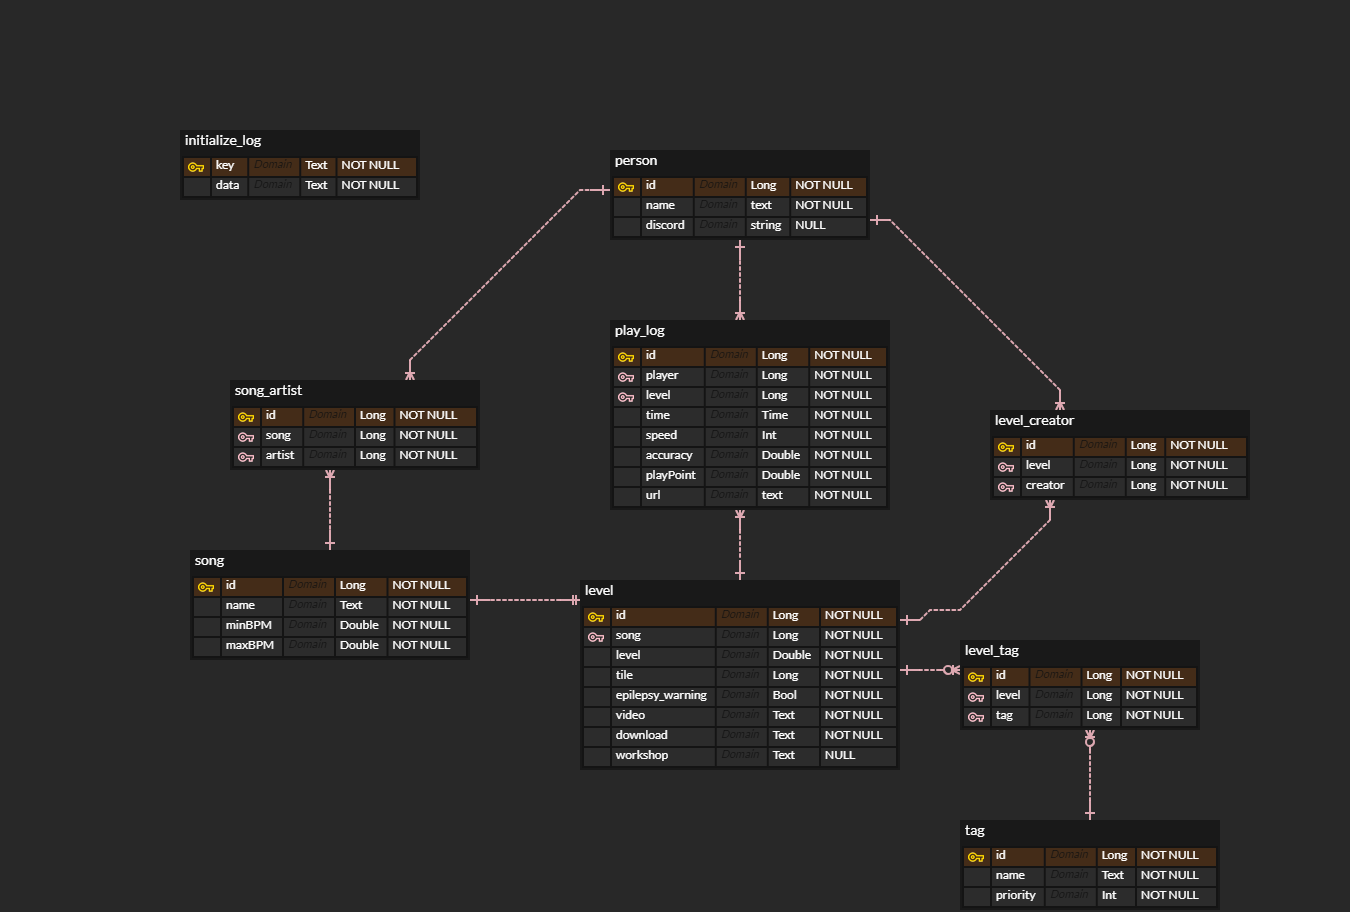
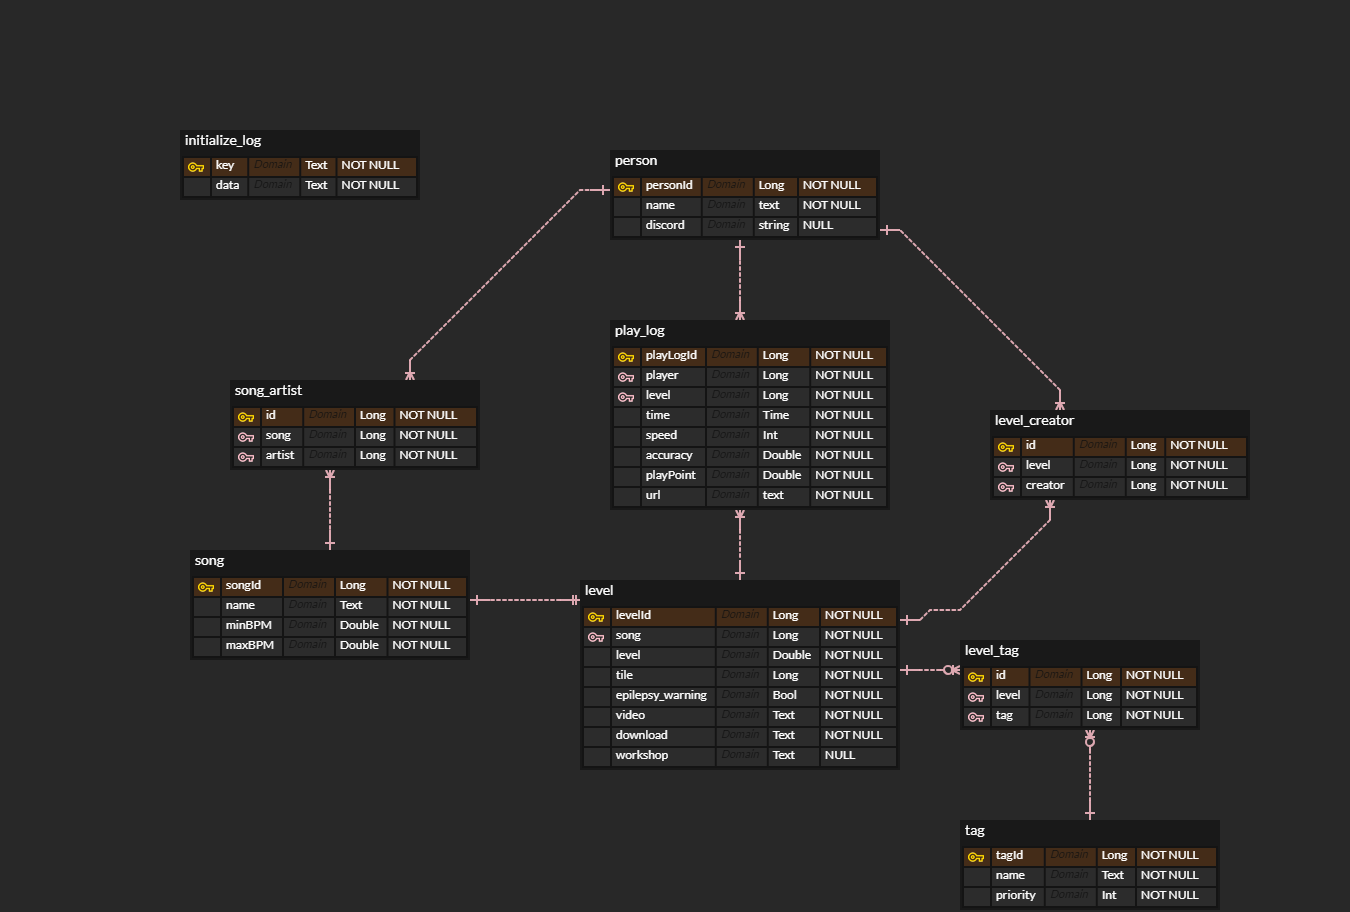
Fix: Fix ERD for right N:N relation

diff --git a/app/src/main/java/io/luxus/adofai/data/mapper/InitializeDaoMapper.kt b/app/src/main/java/io/luxus/adofai/data/mapper/InitializeDaoMapper.kt
@@ -70,7 +70,7 @@ class InitializeDaoMapper @Inject constructor(
         val levelMap = HashMap<Long, Level>()
         for (forumLevel in forumLevelList) {
             if (!levelMap.containsKey(forumLevel.id)) {
-                levelMap[forumLevel.id] = Level(forumLevel.id, songMap[forumLevel.song]!!.id,
+                levelMap[forumLevel.id] = Level(forumLevel.id, songMap[forumLevel.song]!!.songId,
                     forumLevel.level, forumLevel.tiles ?: 0, forumLevel.epilepsyWarning,
                 forumLevel.video ?: "", forumLevel.download ?: "",
                     forumLevel.workshop)
@@ -81,7 +81,7 @@ class InitializeDaoMapper @Inject constructor(
         val playLogList = ArrayList<PlayLog>()
         for (forumPlayLog in forumPlayLogList) {
             playLogList.add(PlayLog(
-                forumPlayLog.id, personMap[forumPlayLog.name]!!.id,
+                forumPlayLog.id, personMap[forumPlayLog.name]!!.personId,
                 forumPlayLog.mapId, forumPlayLog.timeStamp, forumPlayLog.speed,
                 forumPlayLog.accuracy, forumPlayLog.pp, forumPlayLog.url
             ))
@@ -92,7 +92,7 @@ class InitializeDaoMapper @Inject constructor(
         for (forumLevel in forumLevelList) {
             for (creator in forumLevel.creator) {
                 levelCreatorCrossRefList.add(LevelCreatorCrossRef(
-                    forumLevel.id, personMap[creator]!!.id
+                    forumLevel.id, personMap[creator]!!.personId
                 ))
             }
         }
@@ -105,7 +105,7 @@ class InitializeDaoMapper @Inject constructor(
                 songArtistCrossRefSet.add(forumLevel.song)
                 for (artist in forumLevel.artist) {
                     songArtistCrossRefList.add(SongArtistCrossRef(
-                            songMap[forumLevel.song]!!.id, personMap[artist]!!.id
+                            songMap[forumLevel.song]!!.songId, personMap[artist]!!.personId
                     ))
                 }
             }
@@ -121,7 +121,7 @@ class InitializeDaoMapper @Inject constructor(
                     tagId++
                 }
                 levelTagCrossRefList.add(LevelTagCrossRef(
-                    forumLevel.id, tagMap[tagText]!!.id
+                    forumLevel.id, tagMap[tagText]!!.tagId
                 ))
             }
         }

diff --git a/app/src/main/java/io/luxus/adofai/data/source/local/entity/PlayLog.kt b/app/src/main/java/io/luxus/adofai/data/source/local/entity/PlayLog.kt
@@ -13,18 +13,18 @@ import java.sql.Date
     foreignKeys = [
         ForeignKey(
             entity = Person::class,
-            parentColumns = ["id"],
+            parentColumns = ["personId"],
             childColumns = ["player"]
         ),
         ForeignKey(
             entity = Level::class,
-            parentColumns = ["id"],
+            parentColumns = ["levelId"],
             childColumns = ["level"]
         ),
     ]
 )
 data class PlayLog(
-    @PrimaryKey(autoGenerate = true) val id: Long,
+    @PrimaryKey(autoGenerate = true) val playLogId: Long,
     val player: Long,
     val level: Long,
     val time: Date,

diff --git a/app/src/main/java/io/luxus/adofai/data/source/local/entity/relation/LevelCreatorCrossRef.kt b/app/src/main/java/io/luxus/adofai/data/source/local/entity/relation/LevelCreatorCrossRef.kt
@@ -6,13 +6,13 @@ import androidx.room.Index
 @Entity(
     tableName = "level_creator_cross_ref",
     inheritSuperIndices = true,
-    primaryKeys = ["level", "creator"],
+    primaryKeys = ["levelId", "personId"],
     indices = [
-        Index(value = ["level"]),
-        Index(value = ["creator"]),
+        Index(value = ["levelId"]),
+        Index(value = ["personId"]),
     ]
 )
 data class LevelCreatorCrossRef(
-    val level: Long,
-    val creator: Long
+    val levelId: Long,
+    val personId: Long
 )

diff --git a/app/src/main/java/io/luxus/adofai/data/source/local/entity/relation/SongArtistCrossRef.kt b/app/src/main/java/io/luxus/adofai/data/source/local/entity/relation/SongArtistCrossRef.kt
@@ -6,13 +6,13 @@ import androidx.room.Index
 @Entity(
     tableName = "song_artist_cross_ref",
     inheritSuperIndices = true,
-    primaryKeys = ["song", "artist"],
+    primaryKeys = ["songId", "personId"],
     indices = [
-        Index(value = ["song"]),
-        Index(value = ["artist"]),
+        Index(value = ["songId"]),
+        Index(value = ["personId"]),
     ]
 )
 data class SongArtistCrossRef(
-    val song: Long,
-    val artist: Long,
+    val songId: Long,
+    val personId: Long,
 )

diff --git a/app/src/main/java/io/luxus/adofai/data/source/local/entity/relation/LevelTagCrossRef.kt b/app/src/main/java/io/luxus/adofai/data/source/local/entity/relation/LevelTagCrossRef.kt
@@ -6,13 +6,13 @@ import androidx.room.Index
 @Entity(
     tableName = "level_tag_cross_ref",
     inheritSuperIndices = true,
-    primaryKeys = ["level", "tag"],
+    primaryKeys = ["levelId", "tagId"],
     indices = [
-        Index(value = ["level"]),
-        Index(value = ["tag"]),
+        Index(value = ["levelId"]),
+        Index(value = ["tagId"]),
     ]
 )
 data class LevelTagCrossRef(
-    val level: Long,
-    val tag: Long,
+    val levelId: Long,
+    val tagId: Long,
 )

diff --git a/app/src/main/java/io/luxus/adofai/data/source/local/entity/Level.kt b/app/src/main/java/io/luxus/adofai/data/source/local/entity/Level.kt
@@ -12,13 +12,13 @@ import androidx.room.PrimaryKey
     foreignKeys = [
         ForeignKey(
             entity = Song::class,
-            parentColumns = ["id"],
+            parentColumns = ["songId"],
             childColumns = ["song"]
         ),
     ]
 )
 data class Level(
-    @PrimaryKey val id: Long,
+    @PrimaryKey val levelId: Long,
     val song: Long,
     val level: Double,
     val tile: Long,

diff --git a/app/src/main/java/io/luxus/adofai/data/source/local/entity/Song.kt b/app/src/main/java/io/luxus/adofai/data/source/local/entity/Song.kt
@@ -8,7 +8,7 @@ import androidx.room.PrimaryKey
     inheritSuperIndices = true
 )
 data class Song(
-    @PrimaryKey val id: Long,
+    @PrimaryKey val songId: Long,
     val name: String,
     val minBpm: Double,
     val maxBpm: Double

diff --git a/app/src/main/java/io/luxus/adofai/data/source/local/entity/Person.kt b/app/src/main/java/io/luxus/adofai/data/source/local/entity/Person.kt
@@ -8,7 +8,7 @@ import androidx.room.PrimaryKey
     inheritSuperIndices = true
 )
 data class Person(
-    @PrimaryKey val id: Long,
+    @PrimaryKey val personId: Long,
     val name: String,
     val discord: String?
 )

diff --git a/app/src/main/java/io/luxus/adofai/data/source/local/entity/Tag.kt b/app/src/main/java/io/luxus/adofai/data/source/local/entity/Tag.kt
@@ -8,7 +8,7 @@ import androidx.room.PrimaryKey
     inheritSuperIndices = true
 )
 data class Tag(
-    @PrimaryKey val id: Long,
+    @PrimaryKey val tagId: Long,
     val name: String,
     val priority: Int
 )
